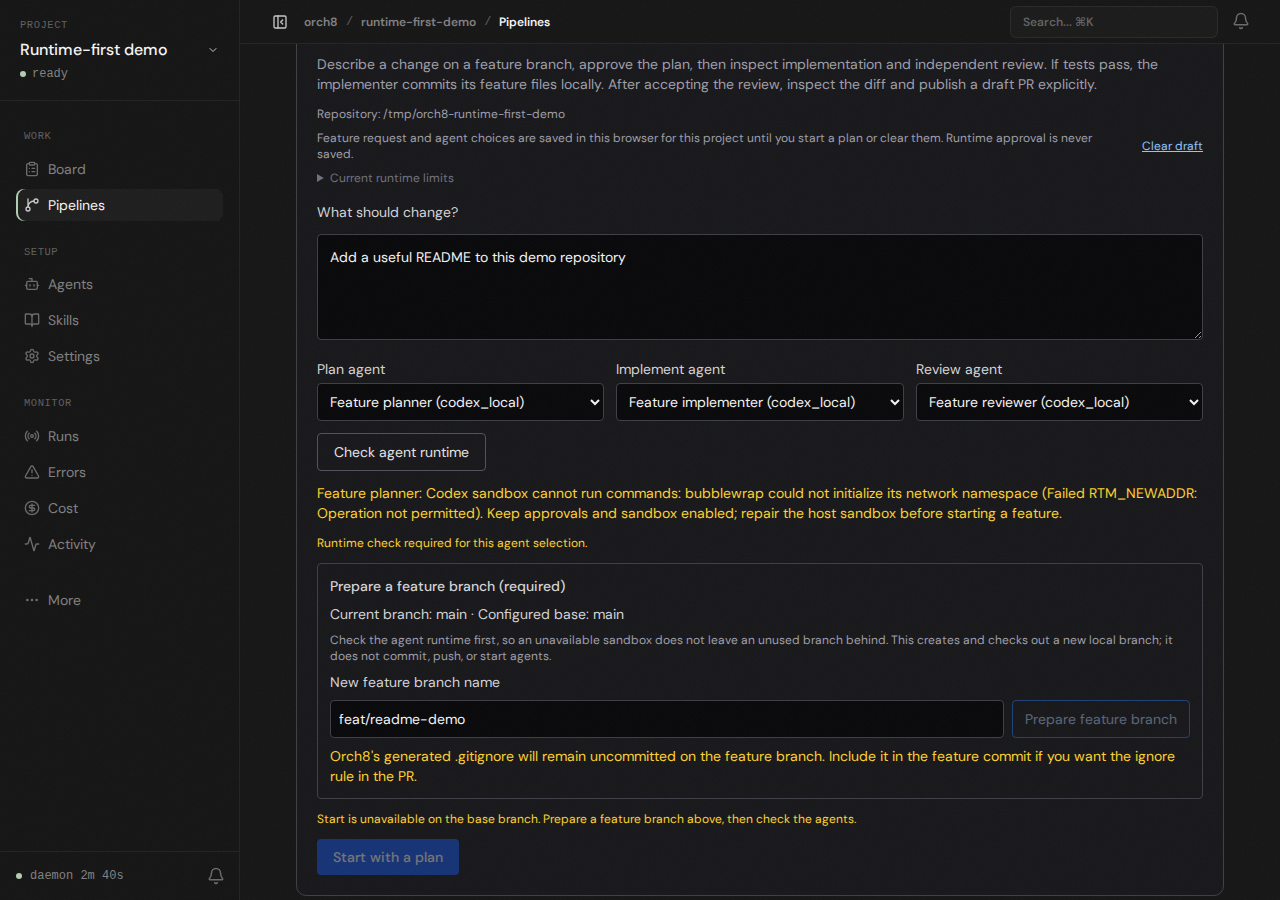
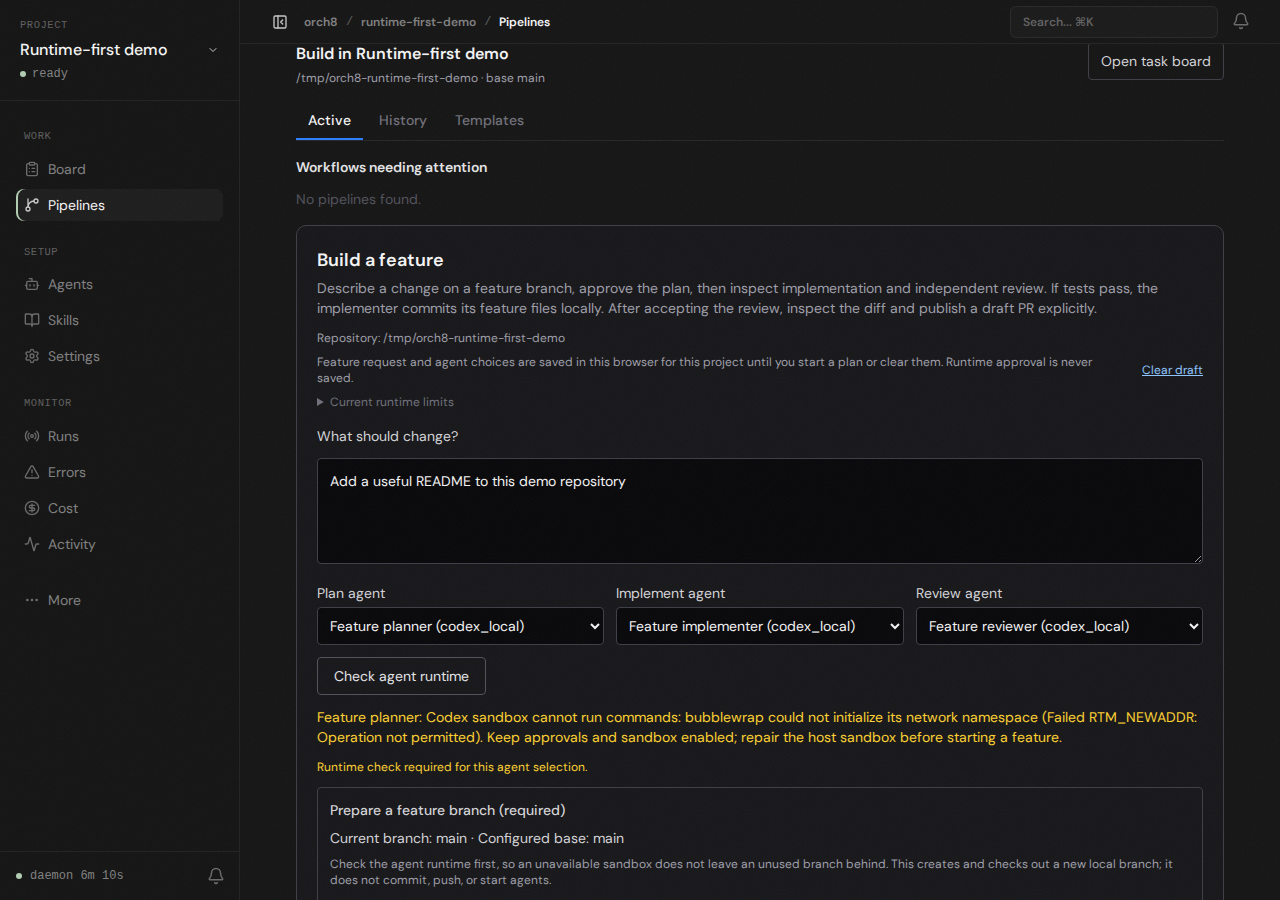
fix(v2): align branch guidance with runtime-first order

diff --git a/packages/dashboard/src/components/pipeline/FeatureIntake.tsx b/packages/dashboard/src/components/pipeline/FeatureIntake.tsx
@@ -226,7 +226,7 @@ export function FeatureIntake({ projectId, onCreated }: { projectId: string; onC
         {branchState?.note && <p role="status" className="text-amber-300">{branchState.note} Include it in the feature commit if you want the ignore rule in the PR.</p>}
         {branchError && <p role="alert" className="text-red-300">{branchError}</p>}
       </div>
-      {branchState && !onFeatureBranch && <p role="status" className="text-xs text-amber-300">Start is unavailable on the base branch. Prepare a feature branch above, then check the agents.</p>}
+      {branchState && !onFeatureBranch && <p role="status" className="text-xs text-amber-300">Start is unavailable on the base branch. Check the agents above, then prepare a feature branch.</p>}
       {error && <p role="alert" className="text-sm text-red-300">{error}</p>}
       <button type="submit" disabled={!ready} className="rounded bg-blue-600 px-4 py-2 text-sm font-medium text-white disabled:cursor-not-allowed disabled:opacity-40">Start with a plan</button>
     </form>
